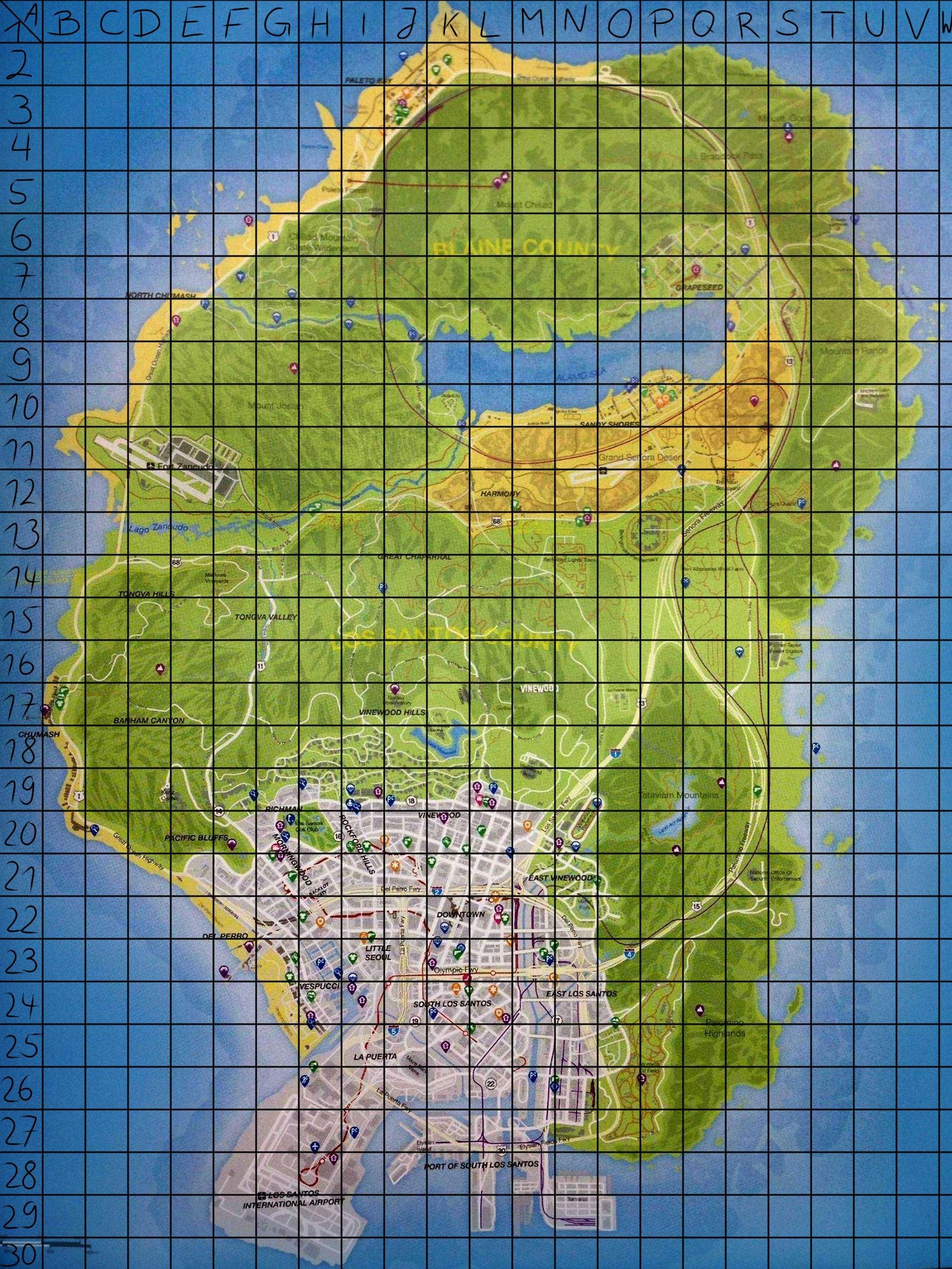
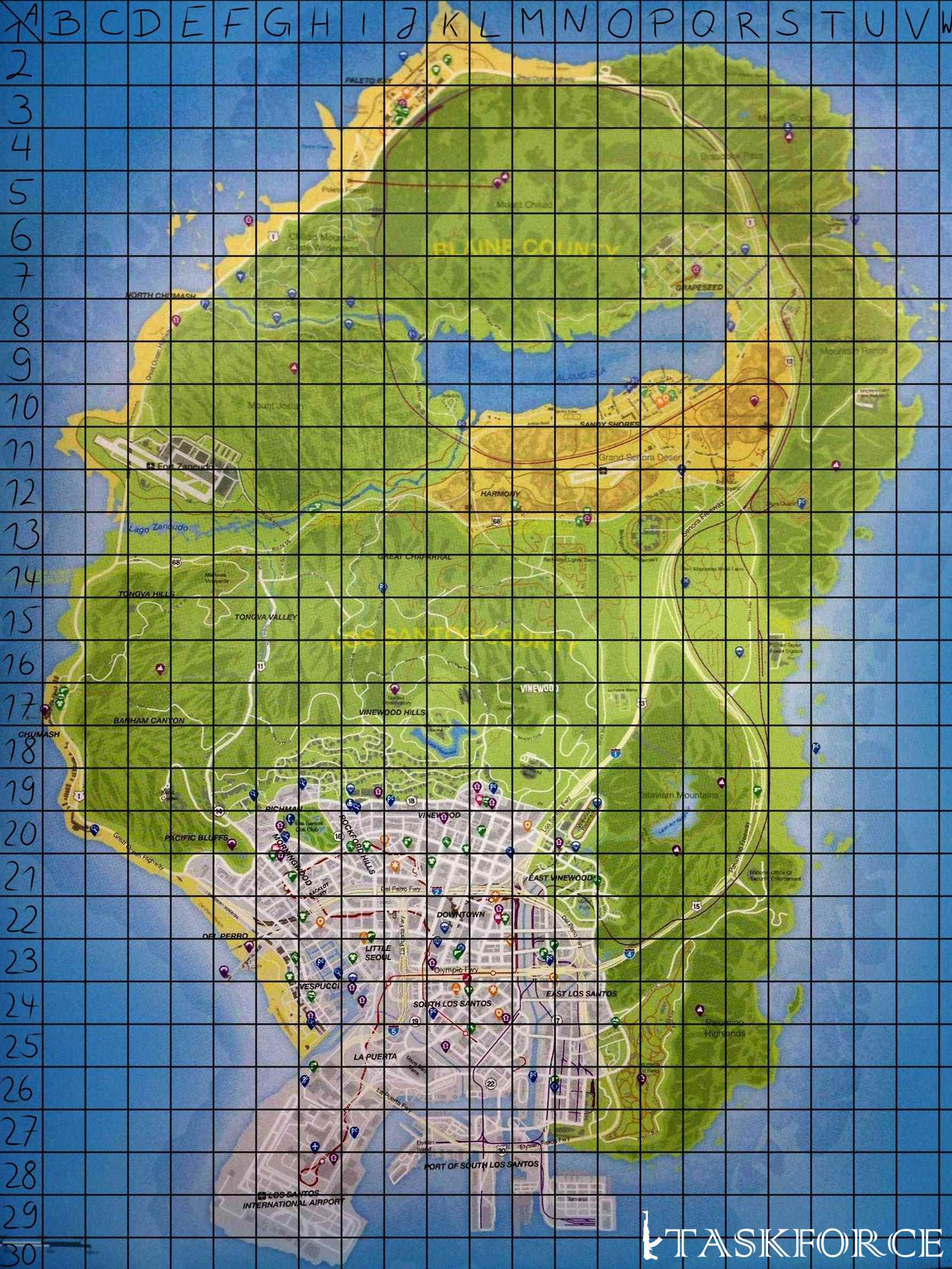
dwad

diff --git a/index.html b/index.html
@@ -72,14 +72,15 @@
       <div class="container">
         <div class="row">
           <div class="col-lg-8 mx-auto">
-            <h2>About Grayscale</h2>
-            <p>Grayscale is a free Bootstrap theme created by Start Bootstrap. It can be yours right now, simply download the template on
-              <a href="http://startbootstrap.com/template-overviews/grayscale/">the preview page</a>. The theme is open source, and you can use it for any purpose, personal or commercial.</p>
-            <p>This theme features stock photos by
-              <a href="http://gratisography.com/">Gratisography</a>
-              along with a custom Google Maps skin courtesy of
-              <a href="http://snazzymaps.com/">Snazzy Maps</a>.</p>
-            <p>Grayscale includes full HTML, CSS, and custom JavaScript files along with SASS and LESS files for easy customization!</p>
+            <h2>About Taskforce</h2>
+            <p>The Taskforce is an elite unit blah blah blah</p>
+            <h2>Requesting the Taskforce</h2>
+            <ol type="1">
+                <li>Locate a Taskforce mercenary in your city. Identity and contact infomation <a href="#download">is found is the section below</a></li>
+                <li>Find your grid location on the map below.</li>
+                <img src="img/map.jpg" alt="TASKFORCE" height="42">
+                <li>Milk</li>
+              </ol> 
           </div>
         </div>
       </div>
